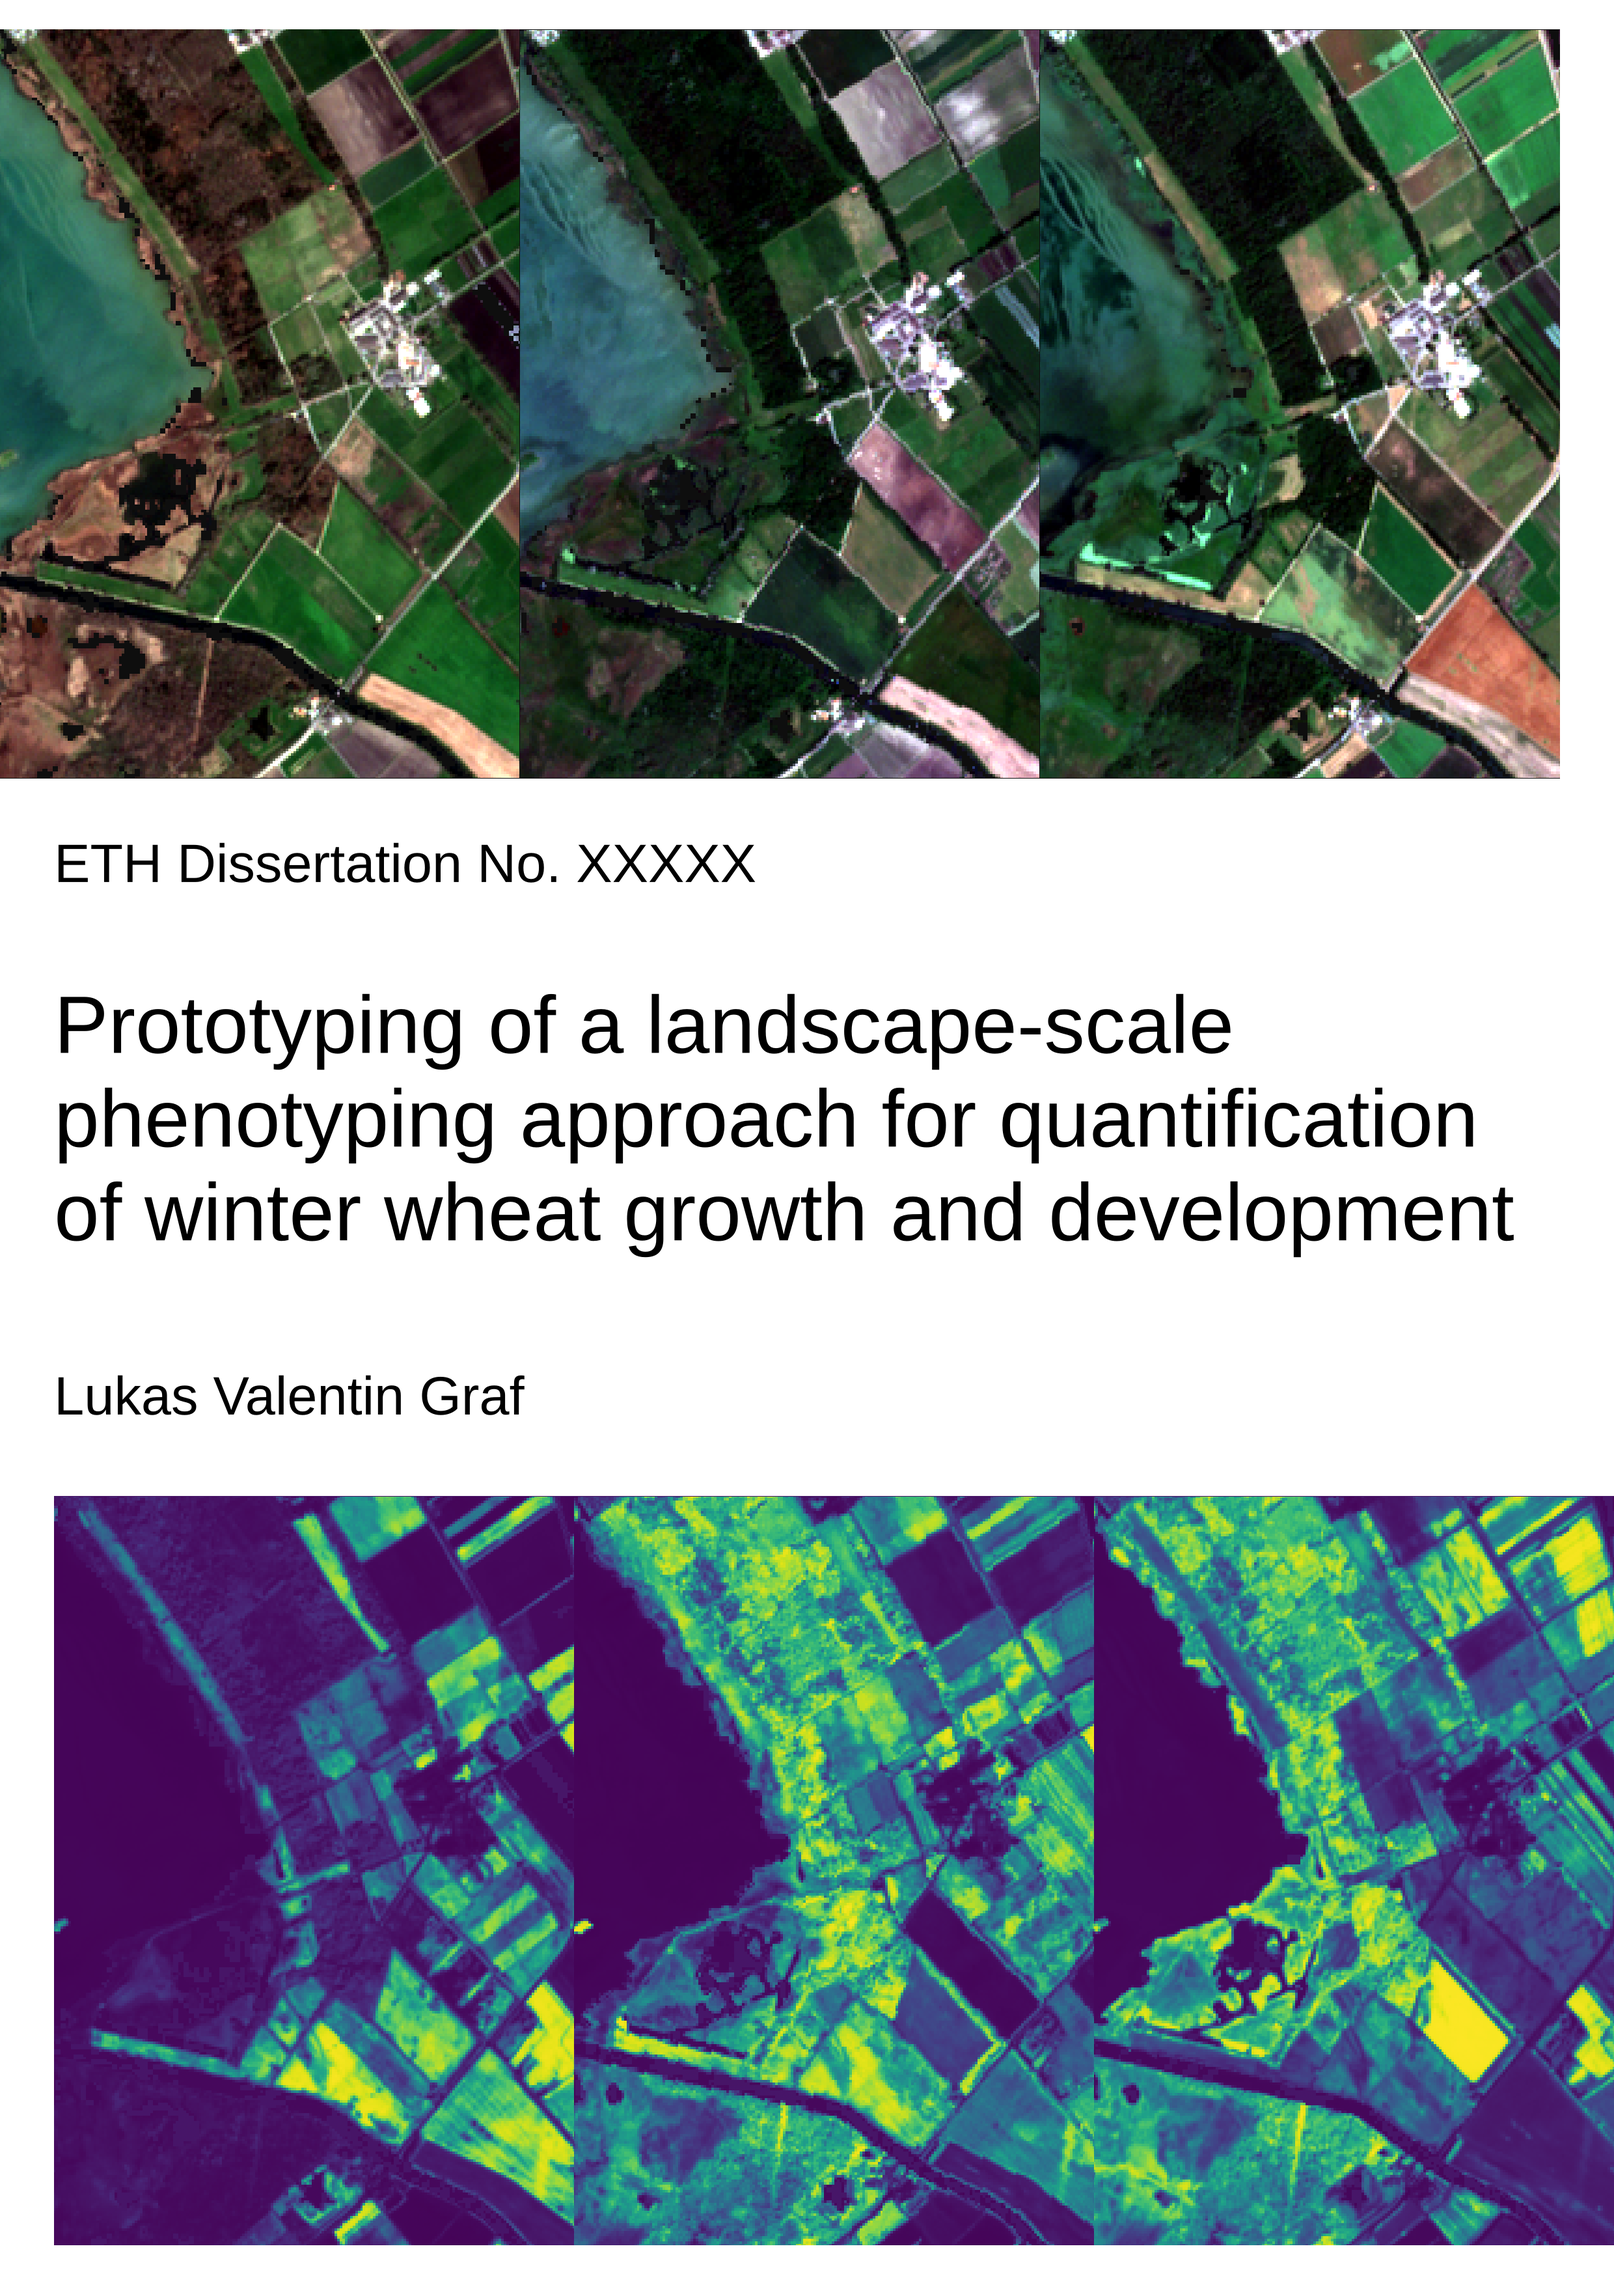
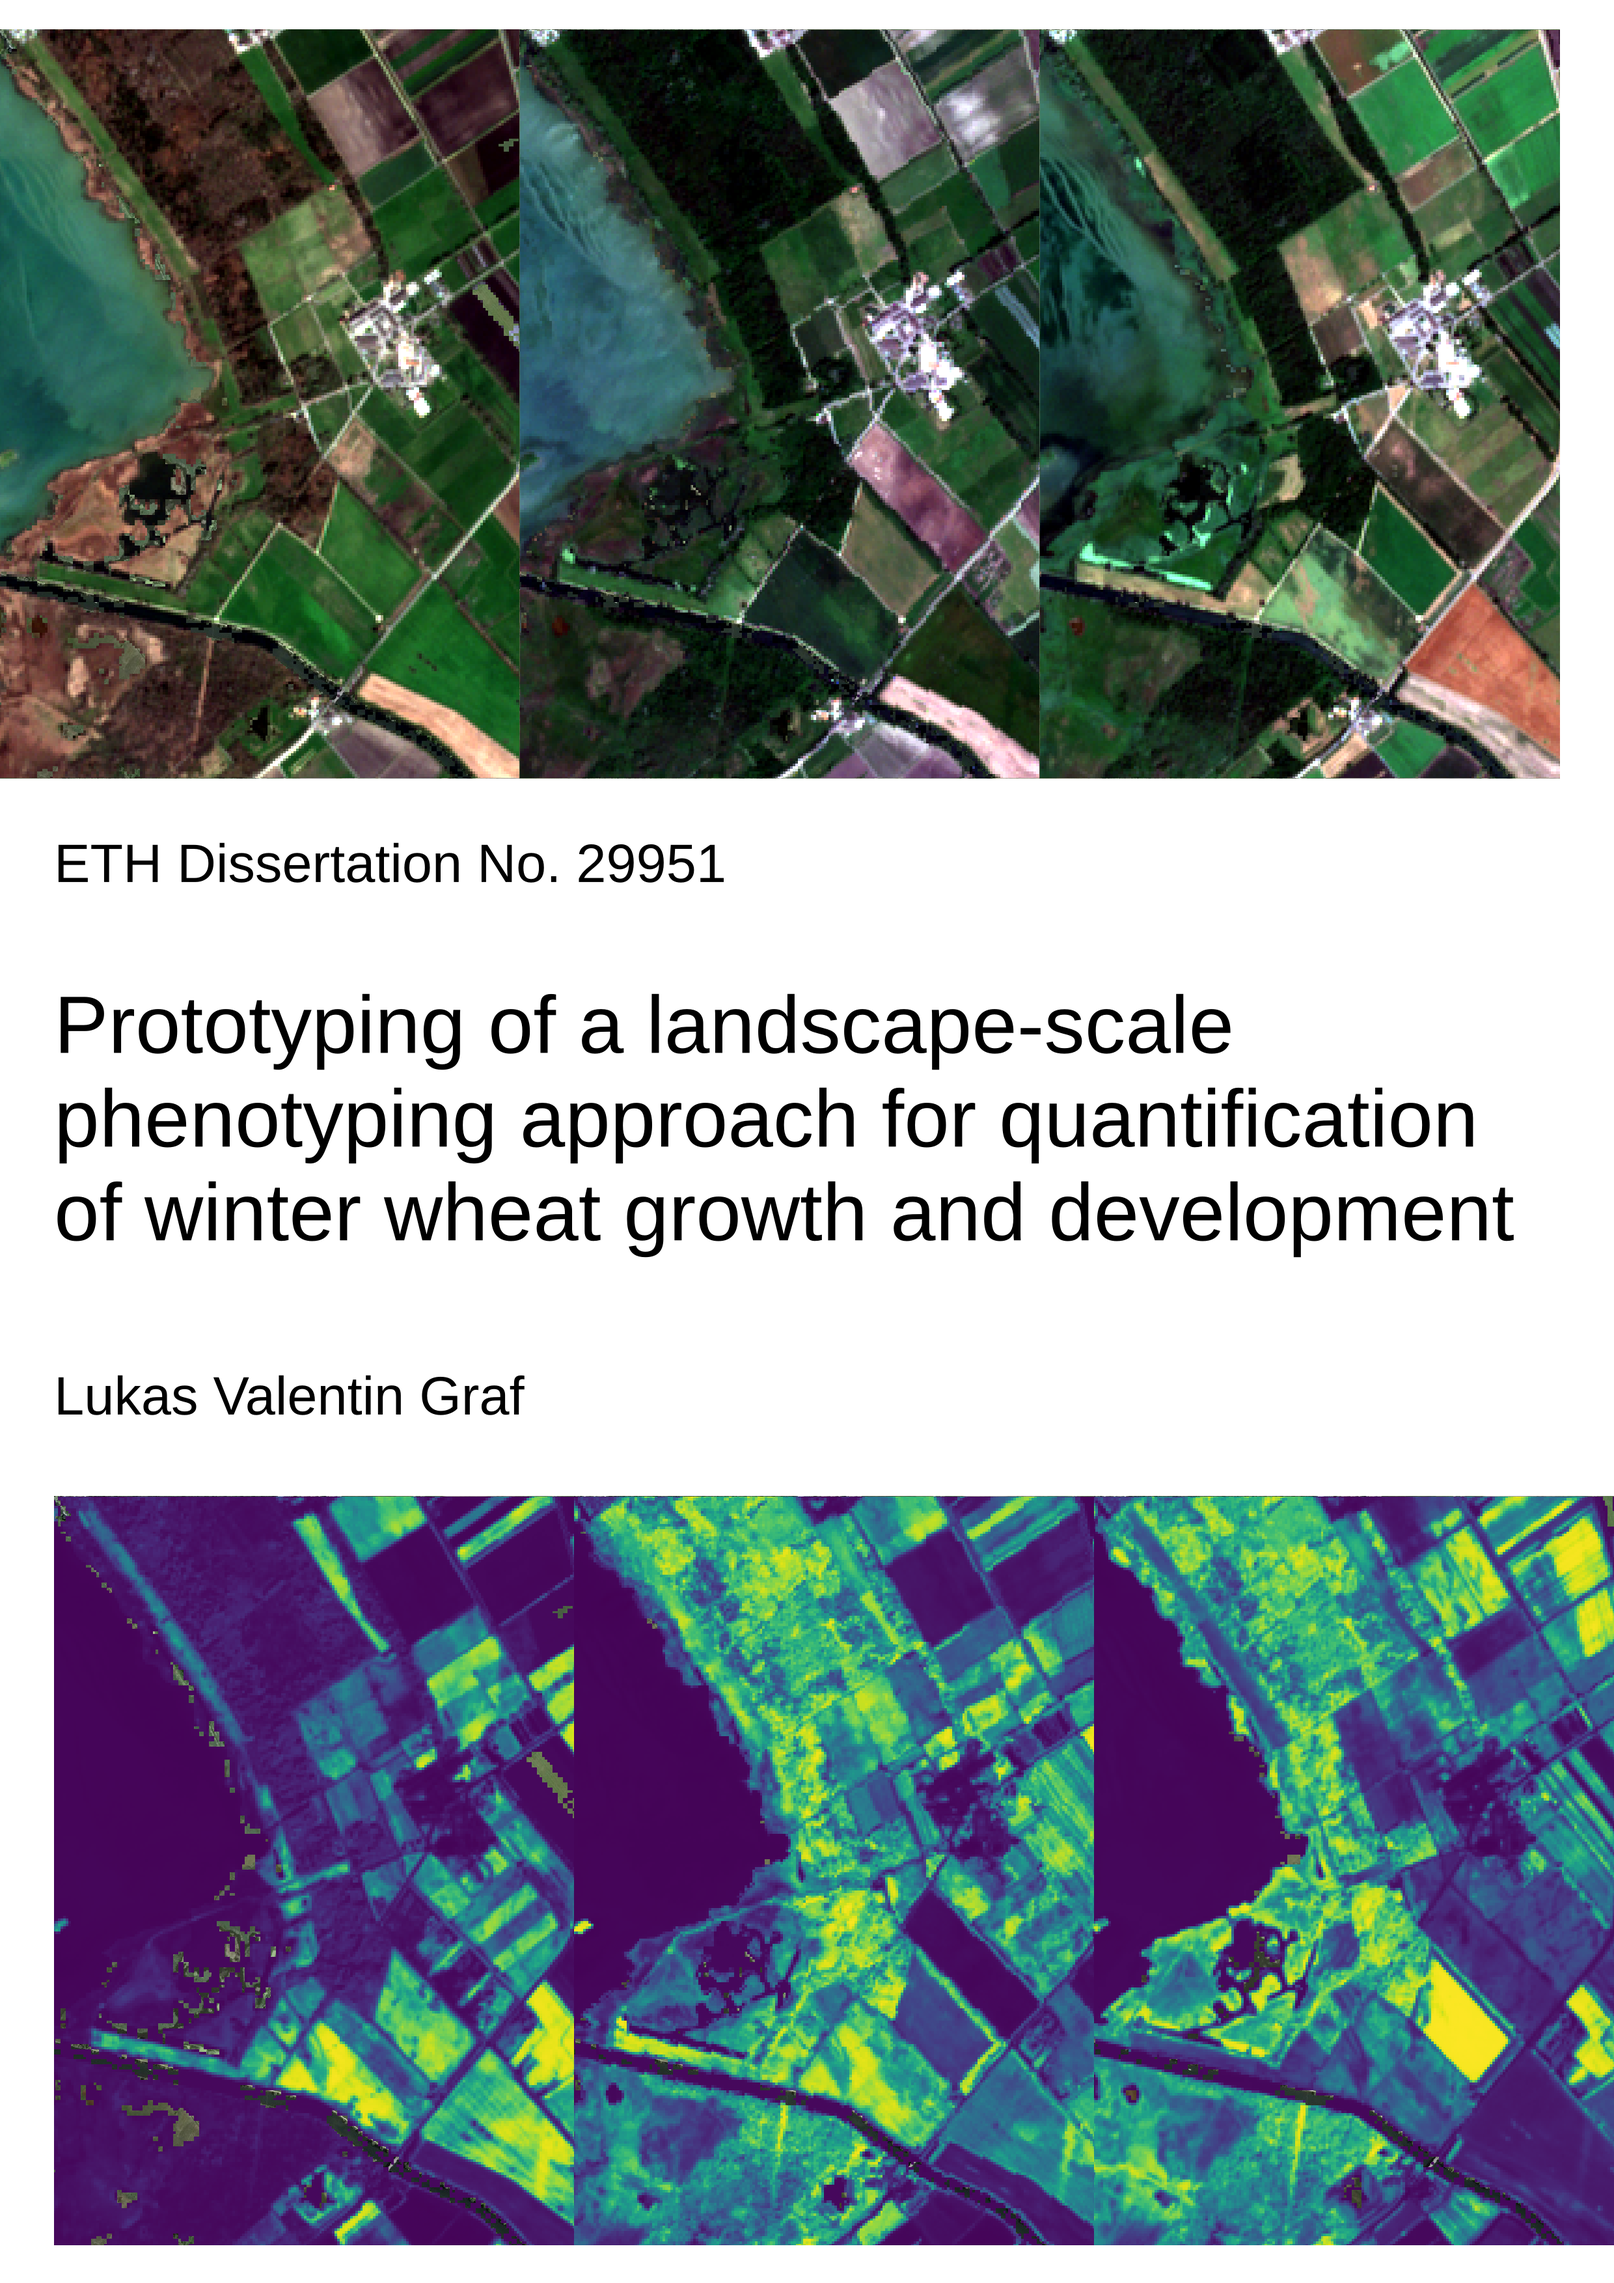
final version for print

diff --git a/00-aux/eth_titlepage.tex b/00-aux/eth_titlepage.tex
@@ -1,6 +1,6 @@
 \begin{titlepage}
     \begin{center}
-        DISS. ETH NO. XXXXX\\
+        DISS. ETH NO. 29951\\
         \vspace{0.9cm}    
         \Huge
         \textbf{Prototyping of a landscape-scale phenotyping approach for quantification of winter wheat growth and development}
